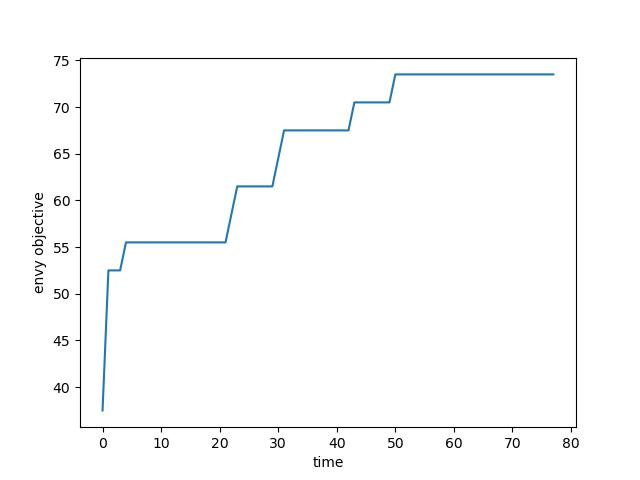
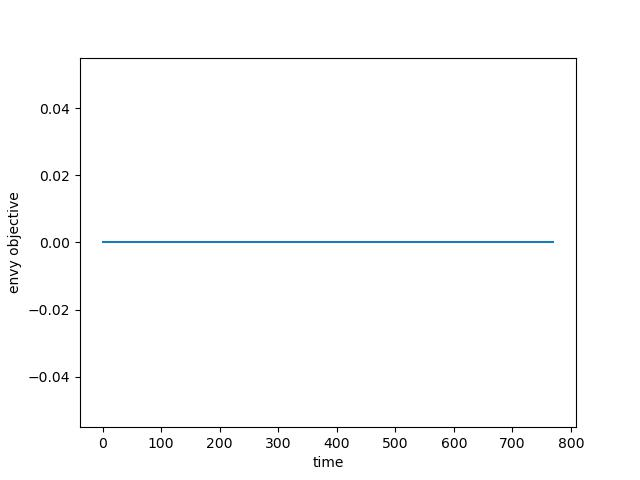
update envy

diff --git a/allocation_seq.py b/allocation_seq.py
@@ -45,21 +45,39 @@ def create_value_dict(organs, patients, organ_times, E_times, M_times, flag_live
                     value_dict[(o, p)] = 0
     return value_dict
 
-def cal_envy(patients, organs, value_dict):
+def cal_envy(patients, organs, value_dict, all_patients=[]):
     total_envy = 0
-    for p in patients:
-        for o in organs:
-            envy_op = 0
-            value_o = value_dict[(o, p)]
-            for q in organs:
-                if q != o:
-                    value_q = value_dict[(q, p)]
-                    if value_q > value_o:
-                        envy_op += value_q - value_o
-            total_envy += envy_op
-            #total_envy += envy_op * x[o, p].x
-            #envy[(o, p)] = envy_op
+    welfare = 0 
+    n = len(patients)
+    for i, p in enumerate(patients):
+        o = organs[i]
+        envy_op = 0
+        value_o = value_dict[(o, p)]
+        for q in organs:
+            if q != o:
+                value_q = value_dict[(q, p)]
+                if value_q > value_o:
+                    envy_op += value_q - value_o
+        total_envy += envy_op
+        welfare += value_o
+
+    if len(all_patients) != 0:
+        other_envy = 0
+        for p in all_patients:
+            if p not in patients:
+                for o in organs:
+                    envy_op = 0
+                    value_o = value_dict[(o, p)]
+                    for q in organs:
+                        if q != o:
+                            value_q = value_dict[(q, p)]
+                            if value_q > value_o:
+                                envy_op += value_q - value_o
+                    other_envy += (envy_op)/len(organs)
+        total_envy += other_envy
+    #obj = welfare - (1/n) * total_envy
     return round(total_envy, 2)
+    
             
 def allocate_organs(organs, patients, obj, value_dict, flag_print_allocation=False):
     """
@@ -191,8 +209,9 @@ if __name__ == '__main__':
     add_omega = 3 #np.random.randint(1, high=4)
     init_n = 12
     add_n = np.random.randint(int(add_omega*1.5), high=7) #5
-    obj = 'welfare' #'envy', 'welfare'
+    obj = 'envy' #'envy', 'welfare'
     flag_organ_size = True
+    flag_discrete_t = True
     organ_t_rand, E_times_rand, women_indices, small_organ_indices = gen_data(init_T, init_omega, init_n)
     patients = list(np.arange(1, init_n + 1, 1))
     organs = list(np.arange(1, init_omega + 1, 1))
@@ -210,7 +229,7 @@ if __name__ == '__main__':
     value_dict = create_value_dict(organs, patients, organ_times, E_times, 
                                    M_times, flag_liver_size=True, alpha=0.5, 
                                    women_indices=women_indices, small_organ_indices=small_organ_indices, 
-                                   flag_discrete_t=False)
+                                   flag_discrete_t=flag_discrete_t)
     
     m, x = allocate_organs(organs, patients, obj, value_dict, flag_print_allocation=False)
     
@@ -241,10 +260,10 @@ if __name__ == '__main__':
                 if x[j, i].x > 0.5:
                     print(f"Patient {i} gets organ {j}")
                     rm_p_list.append(i)
+                    rm_o_list.append(j)
                     n_organ_all += 1
-        for j in organ_range:
+        for j in rm_o_list:
             available_organs.remove(j)
-            rm_o_list.append(j)
         for i in rm_p_list:
             available_patients.remove(i)
         print(f'num organs allocated from {n_range-add_T} until {n_range} is {n_organ_all} out of {len(organ_range)}')
@@ -252,8 +271,8 @@ if __name__ == '__main__':
         prec_alloc_organ.append(round(100*n_organ_all/len(organ_range), 1))
         #Find envy objective value
         envy_val_allocated = cal_envy(rm_p_list, rm_o_list, value_dict)
-        envy_val_all = cal_envy(prev_patients, rm_o_list, value_dict)
-        total_envy += envy_val_all
+        envy_val_all = cal_envy(rm_p_list, rm_o_list, value_dict, prev_patients)
+        total_envy += envy_val_allocated
         envy_obj_list.append(total_envy)
         print(f'envy obj value for allocated patients: {envy_val_allocated} and all patients at that time frame: {envy_val_all}')
         
@@ -273,7 +292,7 @@ if __name__ == '__main__':
         value_dict = create_value_dict(available_organs, available_patients, organ_times, E_times, 
                                    M_times, flag_liver_size=True, alpha=0.5, 
                                    women_indices=new_w_indices, small_organ_indices=new_s_organ_indices, 
-                                   flag_discrete_t=False)
+                                   flag_discrete_t=flag_discrete_t)
         
         m, x = allocate_organs(available_organs, available_patients, obj, value_dict, flag_print_allocation=False)
         #m, x = update_model(m, x, available_organs, available_patients, new_organs, new_patients, value_dict, rm_list, value_dict_new, obj=obj)
